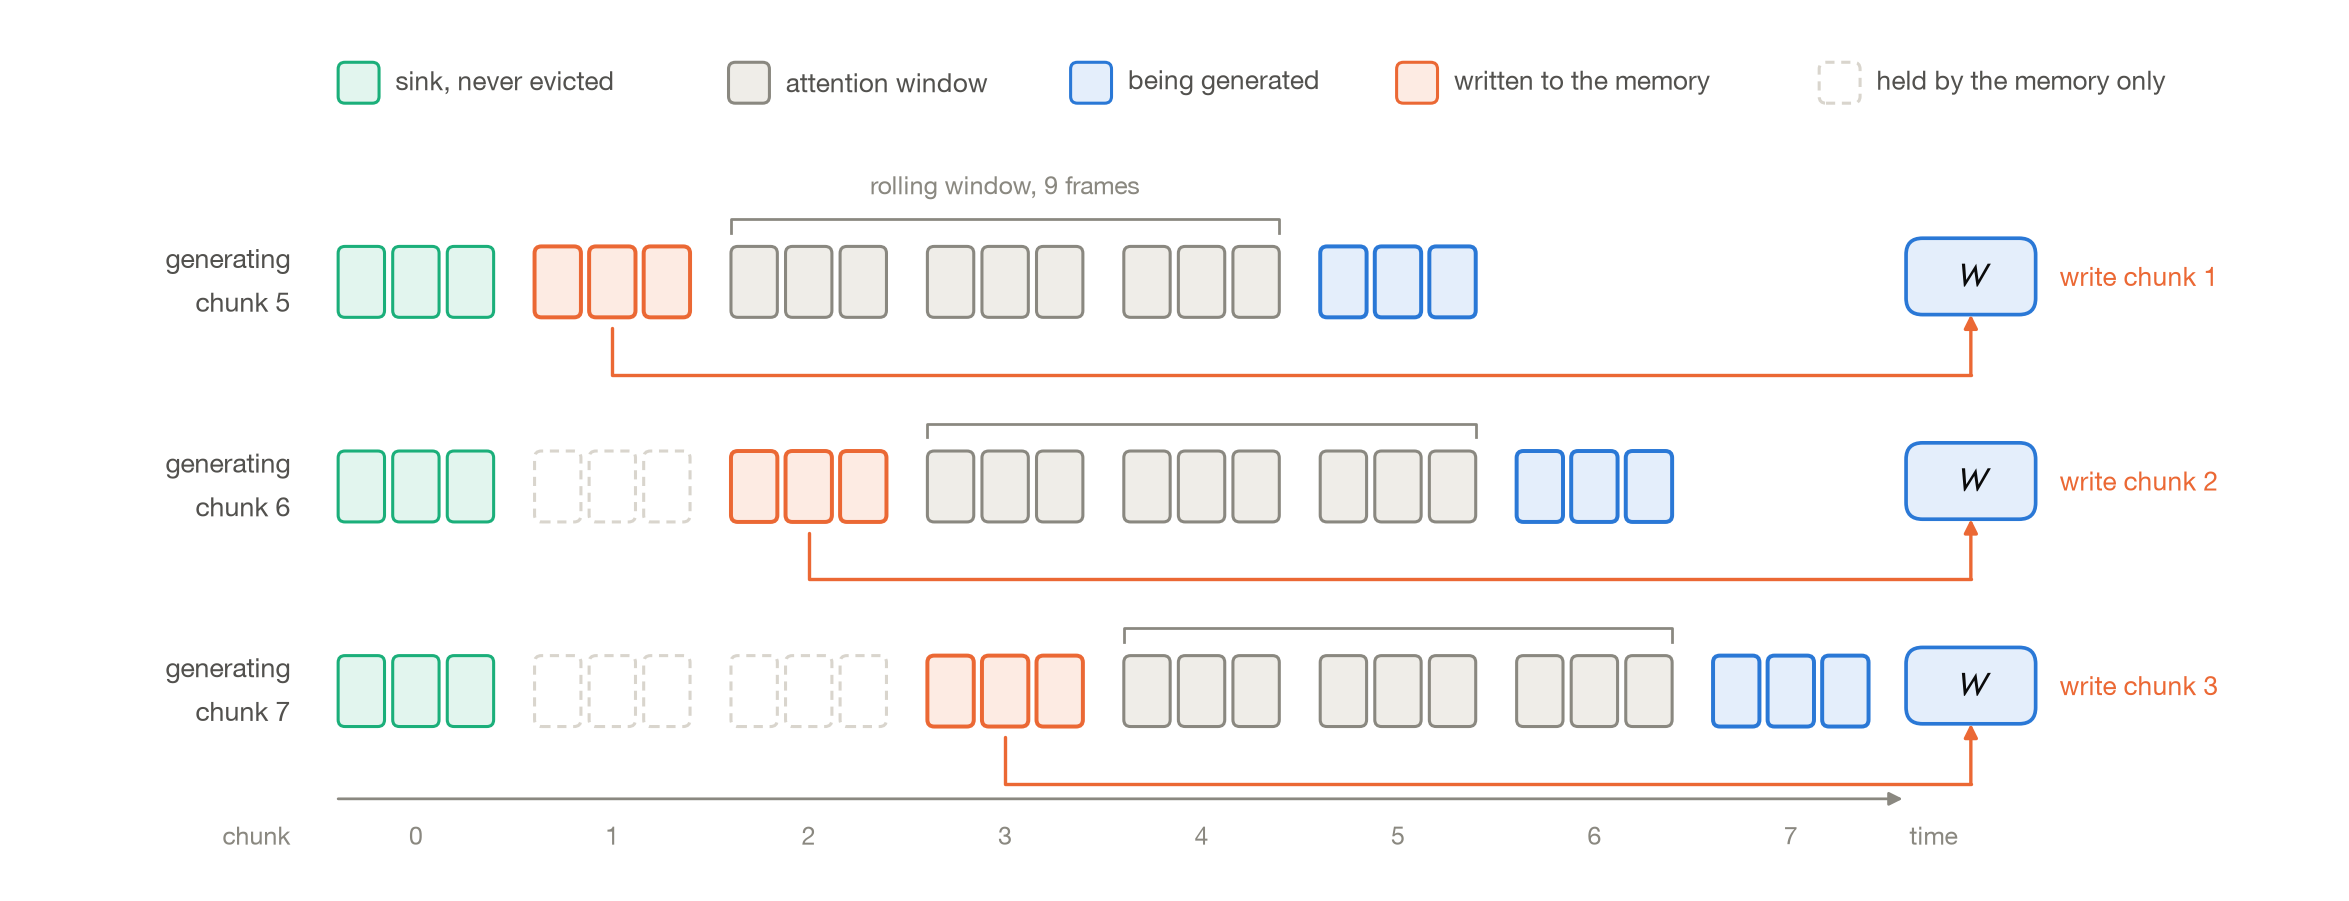
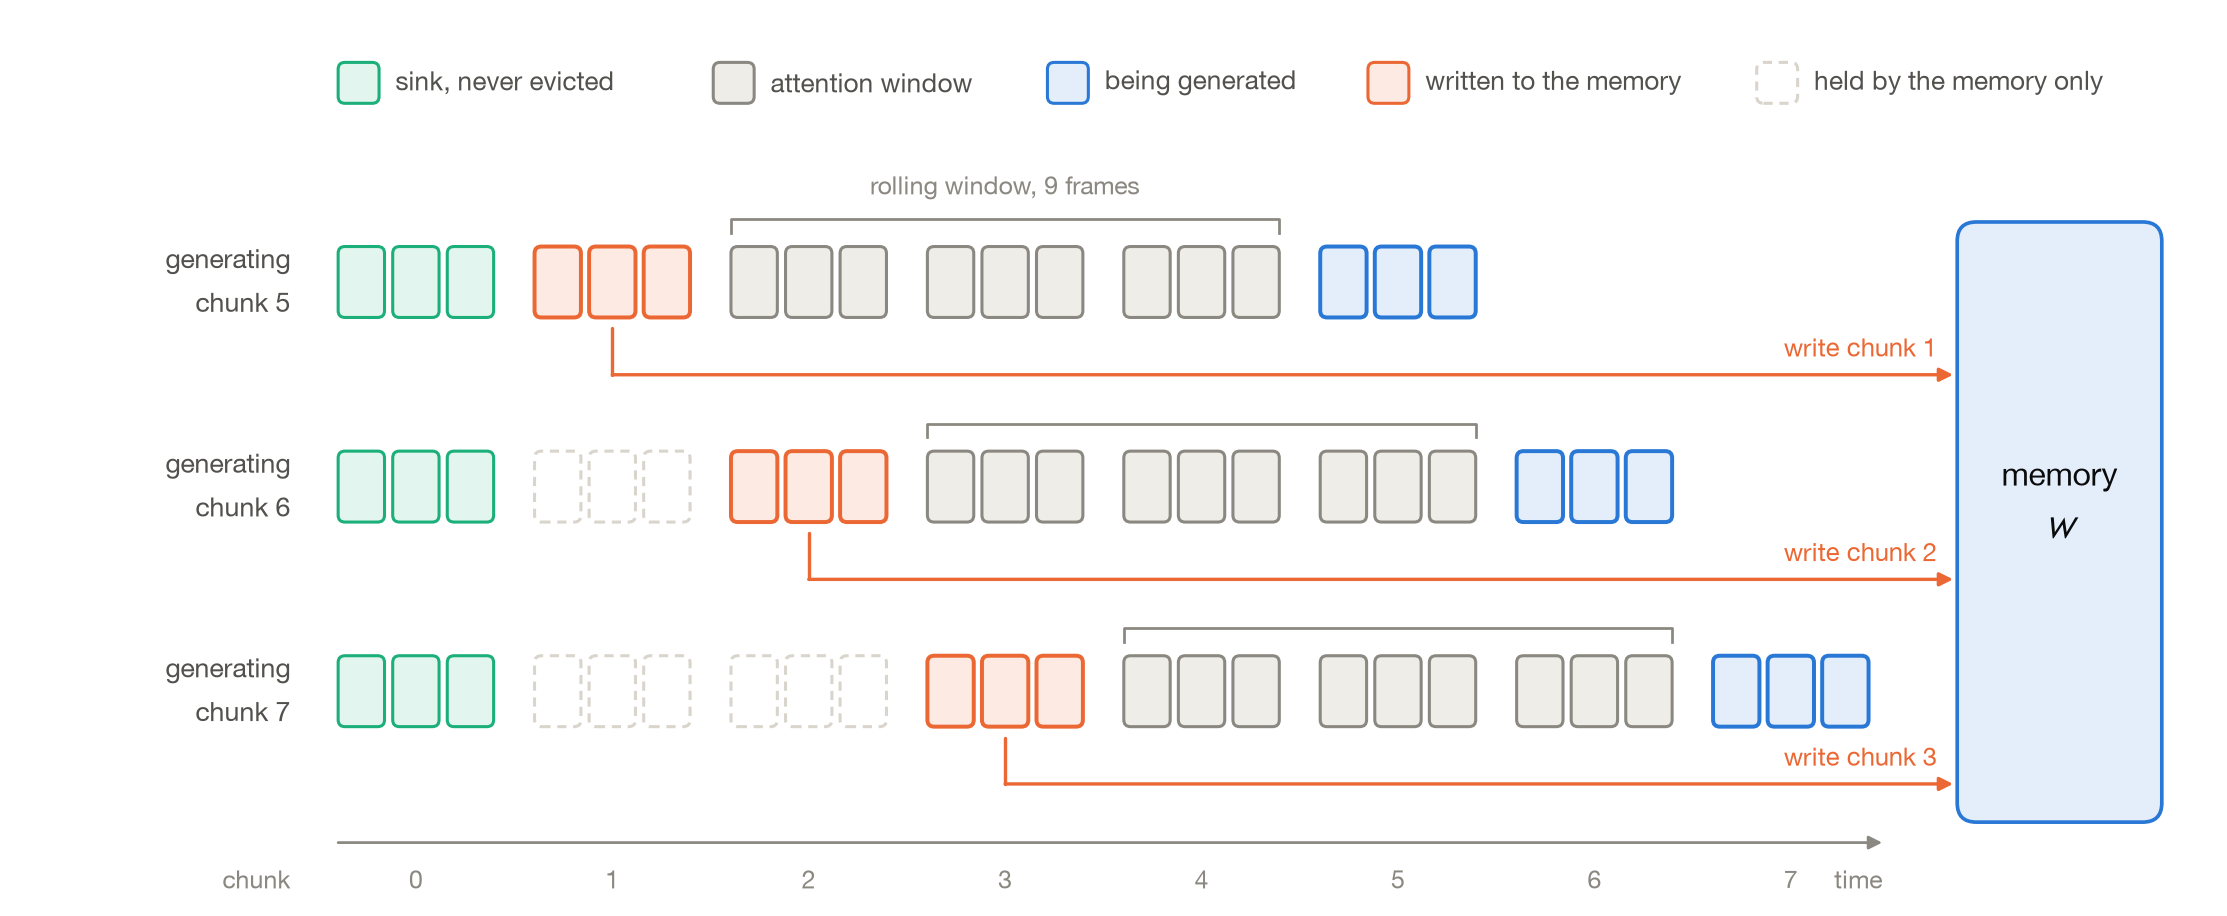
context figure: one memory for the three steps, an even legend; lane labels by their lanes

diff --git a/scripts/make_architecture.py b/scripts/make_architecture.py
@@ -83,7 +83,7 @@ def draw_context():
     chunks, cell, gap, chunk_gap = 8, 0.34, 0.06, 0.30
     chunk_w = 3 * cell + 2 * gap
     left, right = 2.35, 2.35 + chunks * chunk_w + (chunks - 1) * chunk_gap
-    c = Canvas(right + 3.4, 6.35)
+    c = Canvas(right + 2.5, 6.35)
 
     def chunk_x(i):
         return left + i * (chunk_w + chunk_gap)
@@ -97,11 +97,10 @@ def draw_context():
     items = [("sink, never evicted", GREEN_F, GREEN, False), ("attention window", GREY_F, MUTED, False),
              ("being generated", BLUE_F, BLUE, False), ("written to the memory", ORANGE_F, ORANGE, False),
              ("held by the memory only", "#ffffff", LINE, True)]
-    x = left
-    for label, face, edge, dashed in items:
+    for offset, (label, face, edge, dashed) in zip((0, 2.75, 5.2, 7.55, 10.4), items):
+        x = left + offset
         c.box(x, 5.72, 0.3, 0.3, face, edge, dashed=dashed, radius=0.05)
         c.text(x + 0.42, 5.87, label, size=8.6, ha="left")
-        x += 0.62 + 0.118 * len(label)
 
     for row, current in enumerate((5, 6, 7)):
         y = 4.15 - row * 1.5
@@ -122,20 +121,21 @@ def draw_context():
         c.ax.plot([wl, wl, wr, wr], [y + 0.62, y + 0.72, y + 0.72, y + 0.62], color=MUTED, lw=0.9)
         # the evicted chunk goes to the memory
         ex = chunk_x(current - 4) + chunk_w / 2
-        c.arrow((ex, y - 0.08), (ex, y - 0.42), (right + 0.75, y - 0.42), (right + 0.75, y + 0.02),
-                colour=ORANGE)
-        c.module(right + 0.75, y + 0.30, 0.95, 0.56, "$W$", face=BLUE_F, edge=BLUE, size=11, lw=1.2)
-        c.text(right + 1.4, y + 0.30, f"write chunk {current - 4}", size=8.6, colour=ORANGE, ha="left")
+        c.arrow((ex, y - 0.08), (ex, y - 0.42), (right + 0.62, y - 0.42), colour=ORANGE)
+        c.text(right + 0.5, y - 0.22, f"write chunk {current - 4}", size=8.4, colour=ORANGE, ha="right")
 
     c.text((chunk_x(2) + chunk_x(4) + chunk_w) / 2, 4.15 + 0.95, "rolling window, 9 frames", size=8.2,
            colour=MUTED)
+    # one memory for the whole rollout: every step writes into the same state
+    c.box(right + 0.65, 0.45, 1.5, 4.4, BLUE_F, BLUE, lw=1.2, radius=0.14)
+    c.text(right + 1.4, 2.78, "memory\n$W$", size=10.5, colour=INK)
     # time axis
-    ay = 0.62
-    c.arrow((left, ay), (right + 0.25, ay), colour=MUTED, lw=0.9)
+    ay = 0.3
+    c.arrow((left, ay), (right + 0.1, ay), colour=MUTED, lw=0.9)
     for i in range(chunks):
         c.text(chunk_x(i) + chunk_w / 2, ay - 0.27, str(i), size=8.2, colour=MUTED)
     c.text(left - 0.35, ay - 0.27, "chunk", size=8.2, colour=MUTED, ha="right")
-    c.text(right + 0.3, ay - 0.27, "time", size=8.2, colour=MUTED, ha="left")
+    c.text(right + 0.1, ay - 0.27, "time", size=8.2, colour=MUTED, ha="right")
     c.save("arch_context.png")
 
 
@@ -192,7 +192,7 @@ def draw_cell():
     read_y, state_y, write_y = 4.55, 2.95, 1.35
 
     c.text(0.15, read_y + 0.9, "read", size=10, colour=BLUE, weight="bold", ha="left")
-    c.text(0.15, write_y + 0.9, "write", size=10, colour=ORANGE, weight="bold", ha="left")
+    c.text(0.15, write_y - 0.85, "write", size=10, colour=ORANGE, weight="bold", ha="left")
 
     # read lane
     c.module(1.45, read_y, 1.9, 0.78, "current chunk", face=BLUE_F, edge=BLUE)
